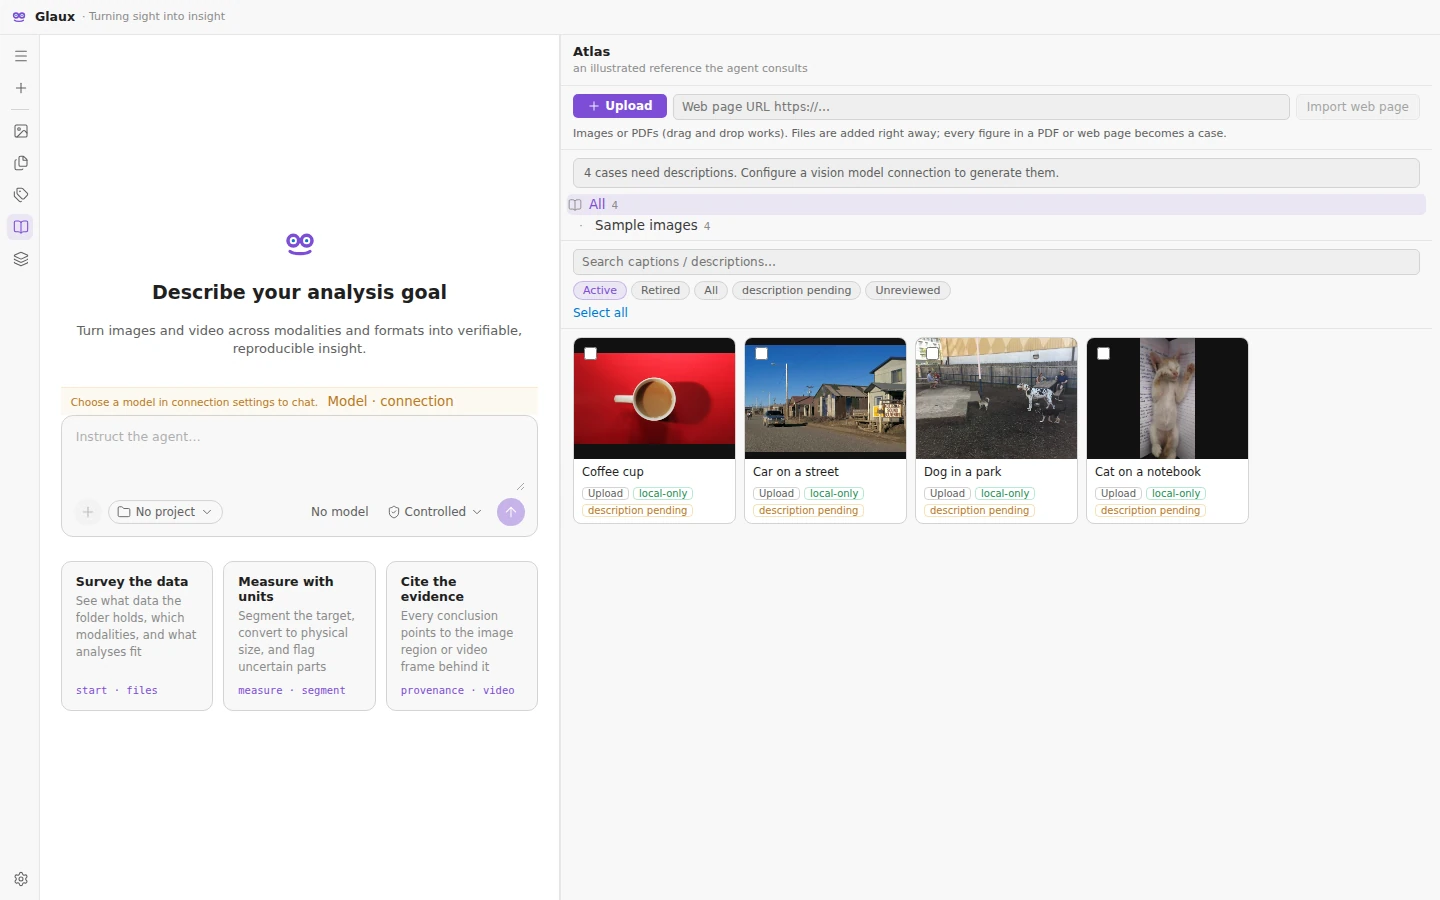
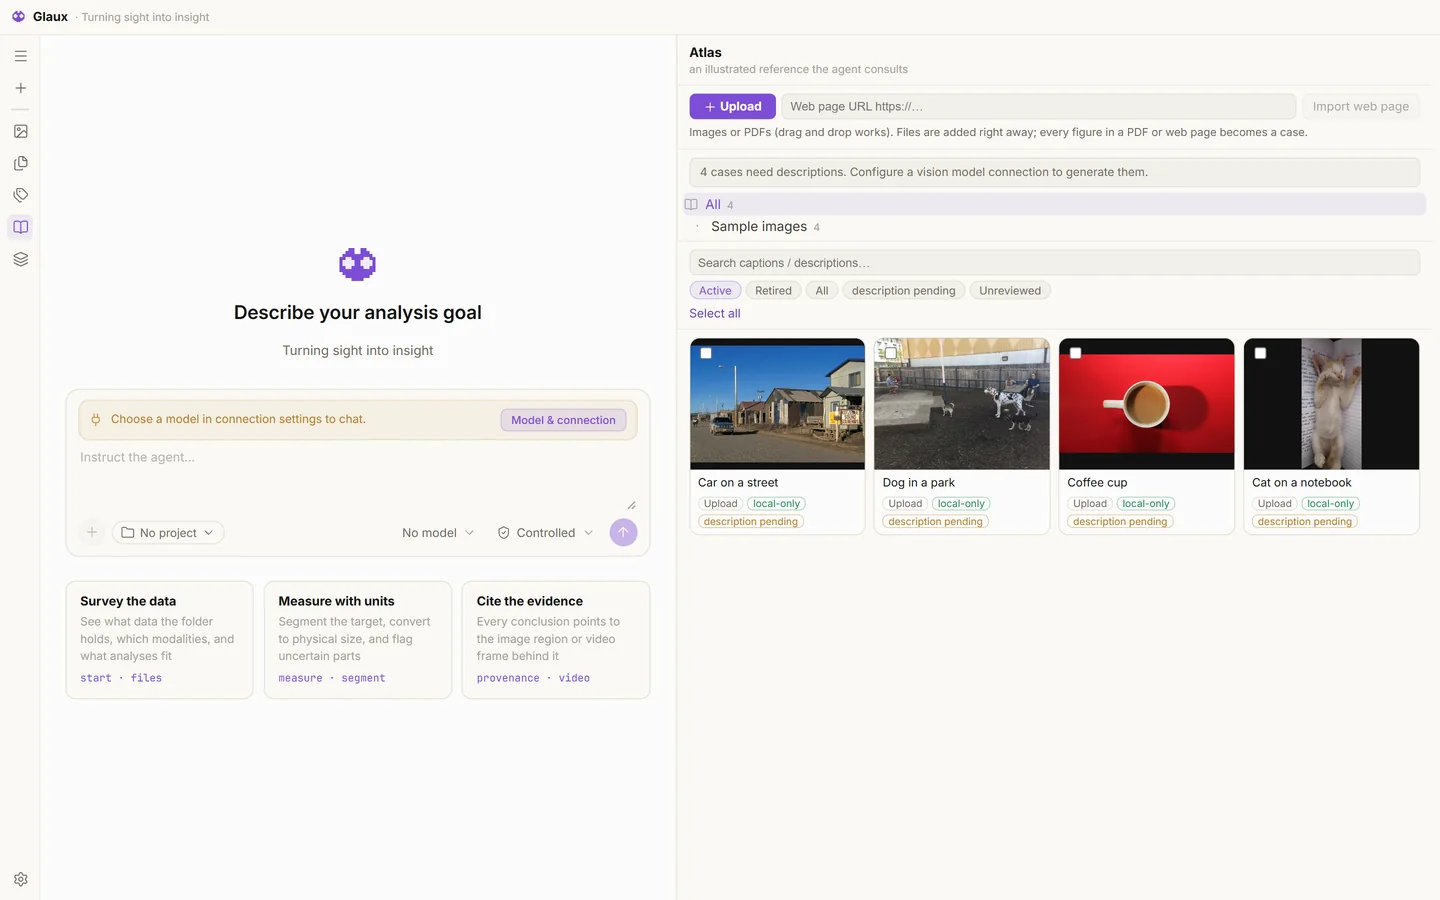
chore(landing): 按当前界面重出中英各四张截图
旧图是 10-18 的界面（旧标识、旧首屏文案）。这次在隔离实例里重拍：临时
GLAUX_HOME + 独立端口，产品模式下导入 data/natural 的四张示例，标注与图谱
用接口播种，不涉及维护者自己的会话。中英两套只有语言不同，数据源名、
标注标签、图谱集合与案例标题按语言录入。均 1440×900、亮色，WebP 33-56 KB。

diff --git a/docs/landing/assets/screenshots/README.md b/docs/landing/assets/screenshots/README.md
@@ -9,11 +9,15 @@ status: living
 
 | 文件 | 内容 |
 | --- | --- |
-| `glaux-overview.webp` | 图像工作区、人工标注与文件栏 |
-| `glaux-annotations.webp` | 人工框标注、标签与面积汇总 |
-| `glaux-atlas.webp` | 四张内置示例照片组成的图谱案例库 |
+| `glaux-overview.webp` | 图像工作区（舞台 + 文件栏）与对话列 |
+| `glaux-annotations.webp` | 咖啡杯上的两个人工框标注、标签目录条目与面积汇总 |
+| `glaux-atlas.webp` | 四条示例案例组成的图谱库（上传入图，带标题与集合） |
 | `glaux-context.webp` | 上下文页中的工具目录 |
 
-截图来自隔离的临时工作区，仅加载仓库内 `data/natural` 示例。猫、咖啡杯和狗照片为 CC0 1.0，车辆照片为美国联邦政府作品；作者、来源和哈希见 [示例资产许可表](../../../../data/natural/README.md)。框标注为人工演示，截图未使用私人数据、模型凭据或虚构的模型运行记录。
+截图来自隔离的临时工作区，仅加载仓库内 `data/natural` 示例。猫、咖啡杯和狗照片为 CC0 1.0，车辆照片为美国联邦政府作品；作者、来源和哈希见 [示例资产许可表](../../../../data/natural/README.md)。框标注与图谱标题为人工录入的演示数据，截图未使用私人数据、模型凭据或虚构的模型运行记录——界面里的「请先在连接设置中选择模型」「待补描述」都是未接模型时的真实状态。
+
+两套图只有语言不同：数据源名（自然图像 / Natural images）、标注标签（咖啡杯、杯柄 / coffee cup、cup handle）、图谱集合与案例标题都按语言录入。标注使用标签目录里的条目，因此面板不出现「未目录」后缀。
 
 重新截取时，分别将界面语言设为中文和英文、主题设为亮色。使用全新的浏览器上下文与隔离的会话、上传、图谱和标注目录，等待照片与标注完整显示后截图；更新同名 WebP，并核对语言、许可和体积。
+
+隔离实例的做法：另起一套 `backend` / `agent-runtime` / `vite`（`GLAUX_HOME` 指向临时目录、`GLAUX_DEV_MODE=0`），把 `data/natural` 复制到该临时目录后经 `POST /datasources` 导入；标注与图谱用 `POST /annotations`、`POST /atlas/uploads` + `PATCH /atlas/exemplars/{id}` 播种，避免动到维护者自己的会话与项目。窗口固定 1440 × 900；英文那套的标注面板留 320 px，240 px 时「Confirmed · Manual · 112,225 px²」一行会溢出出横向滚动条。
